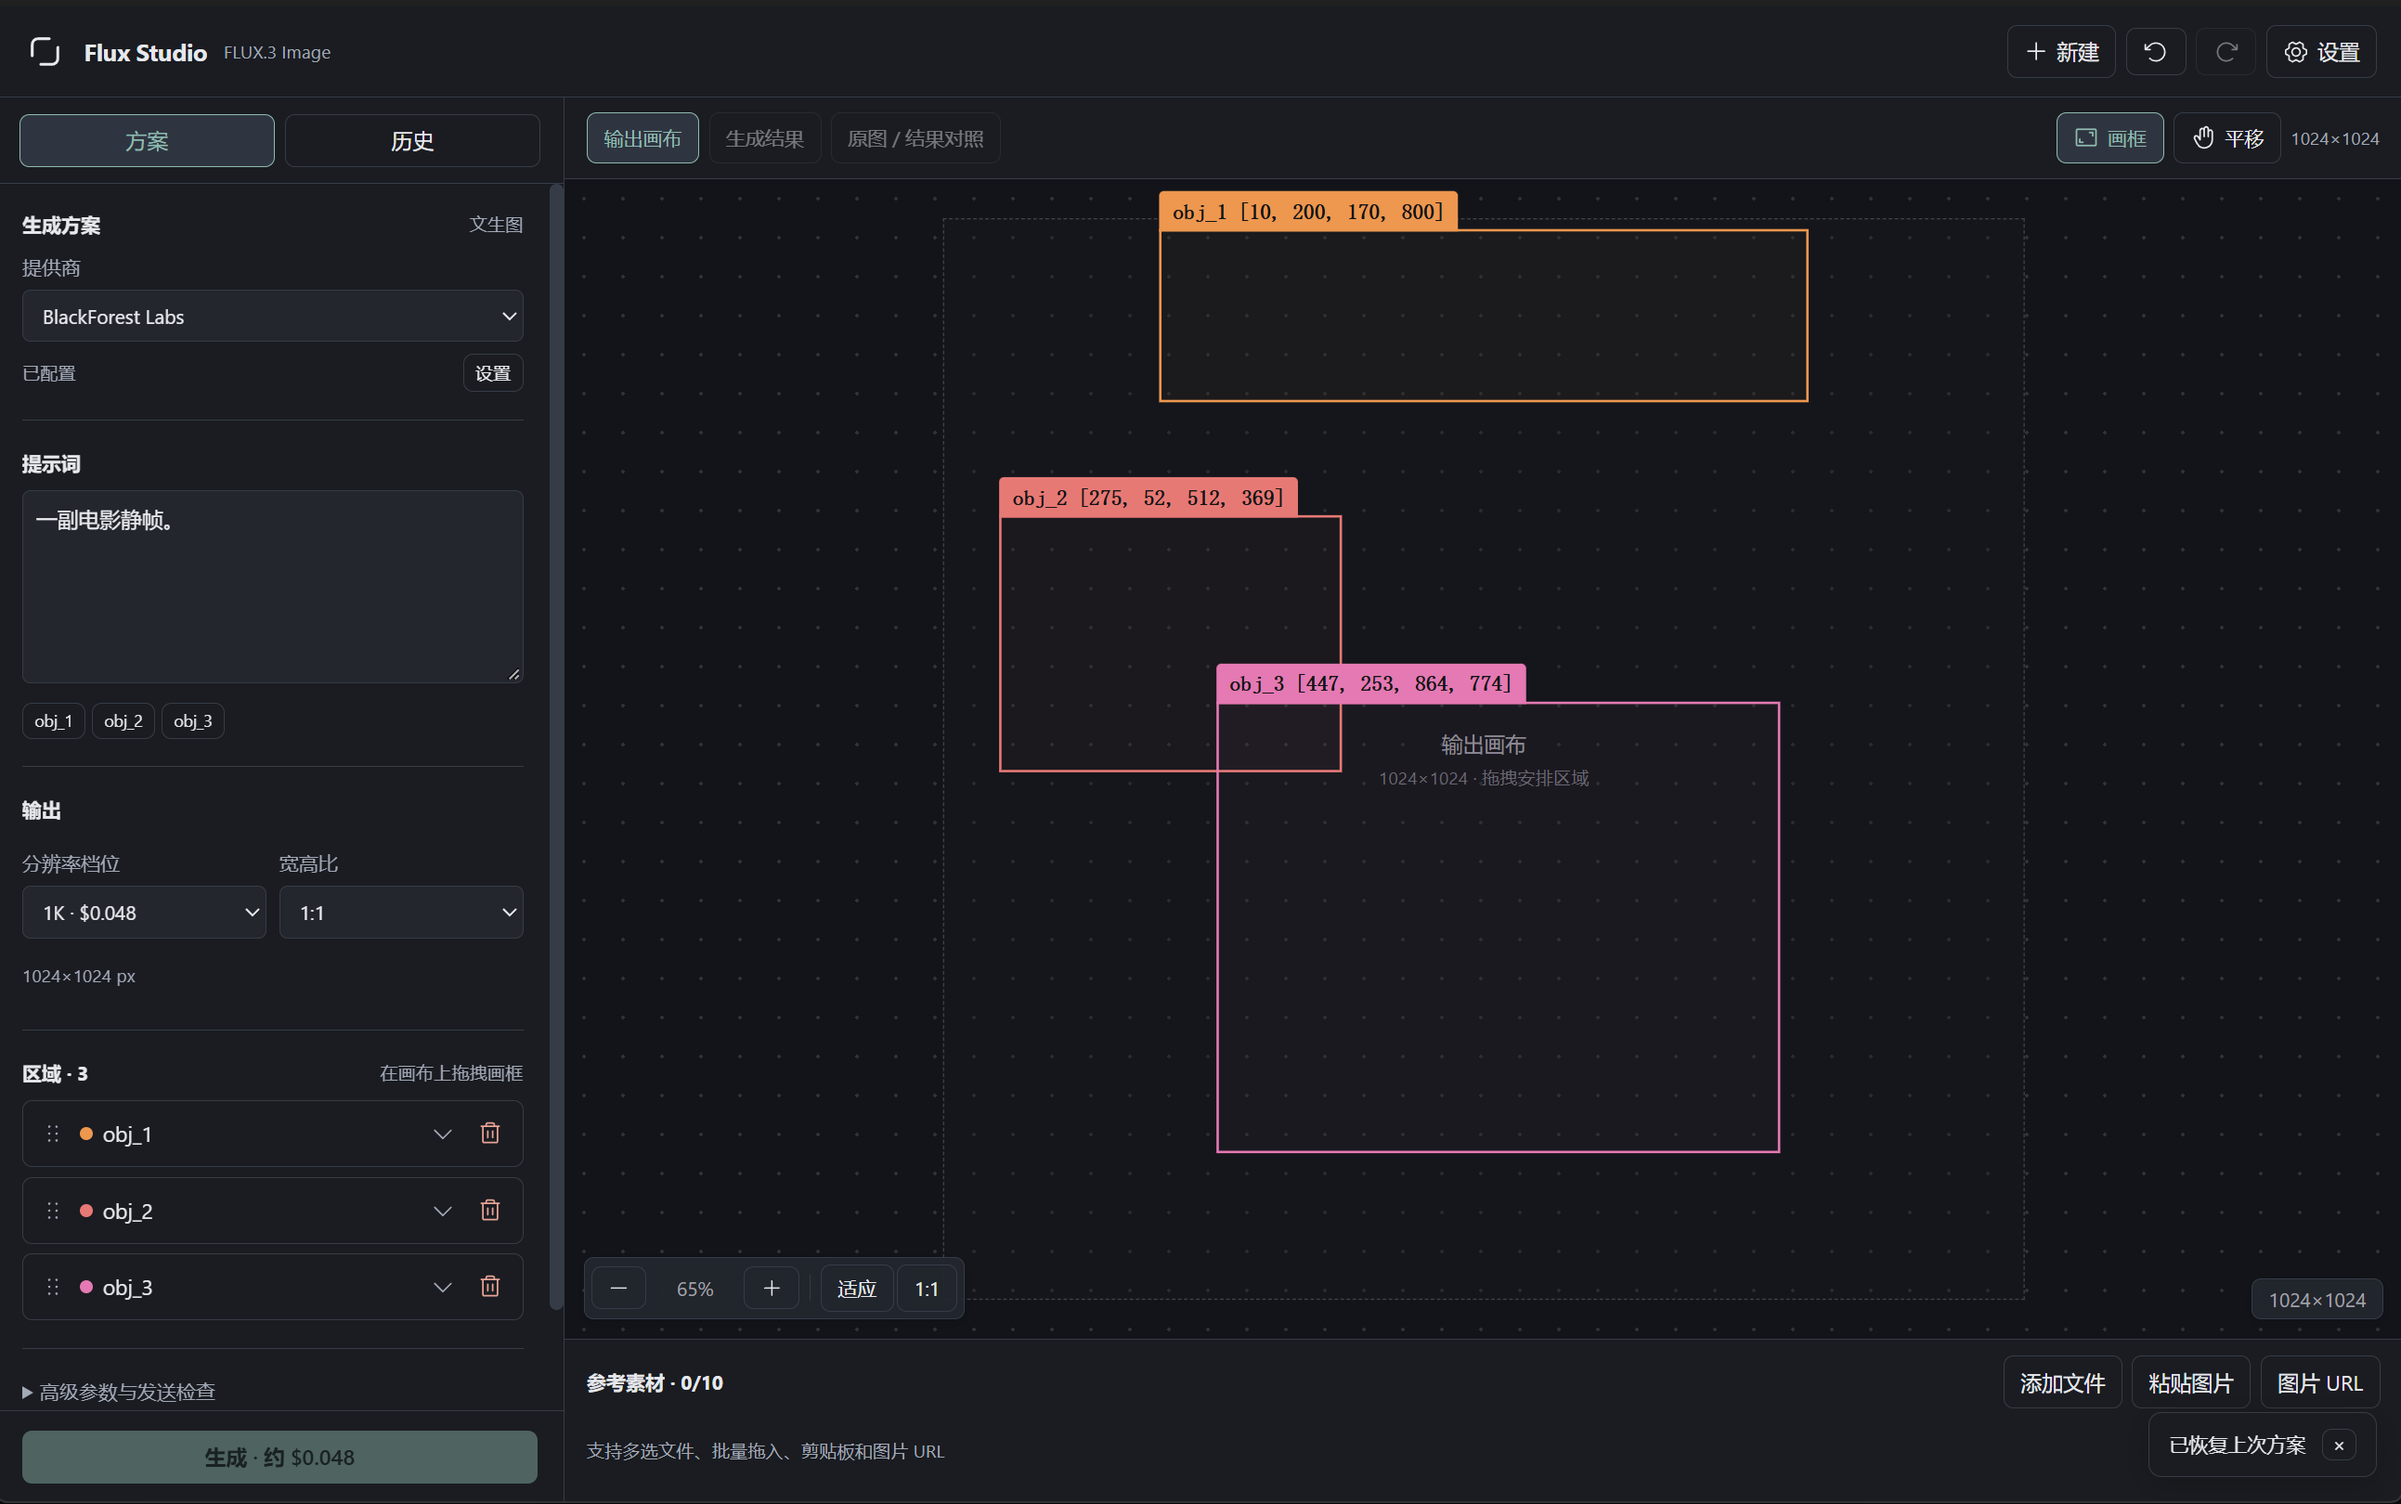
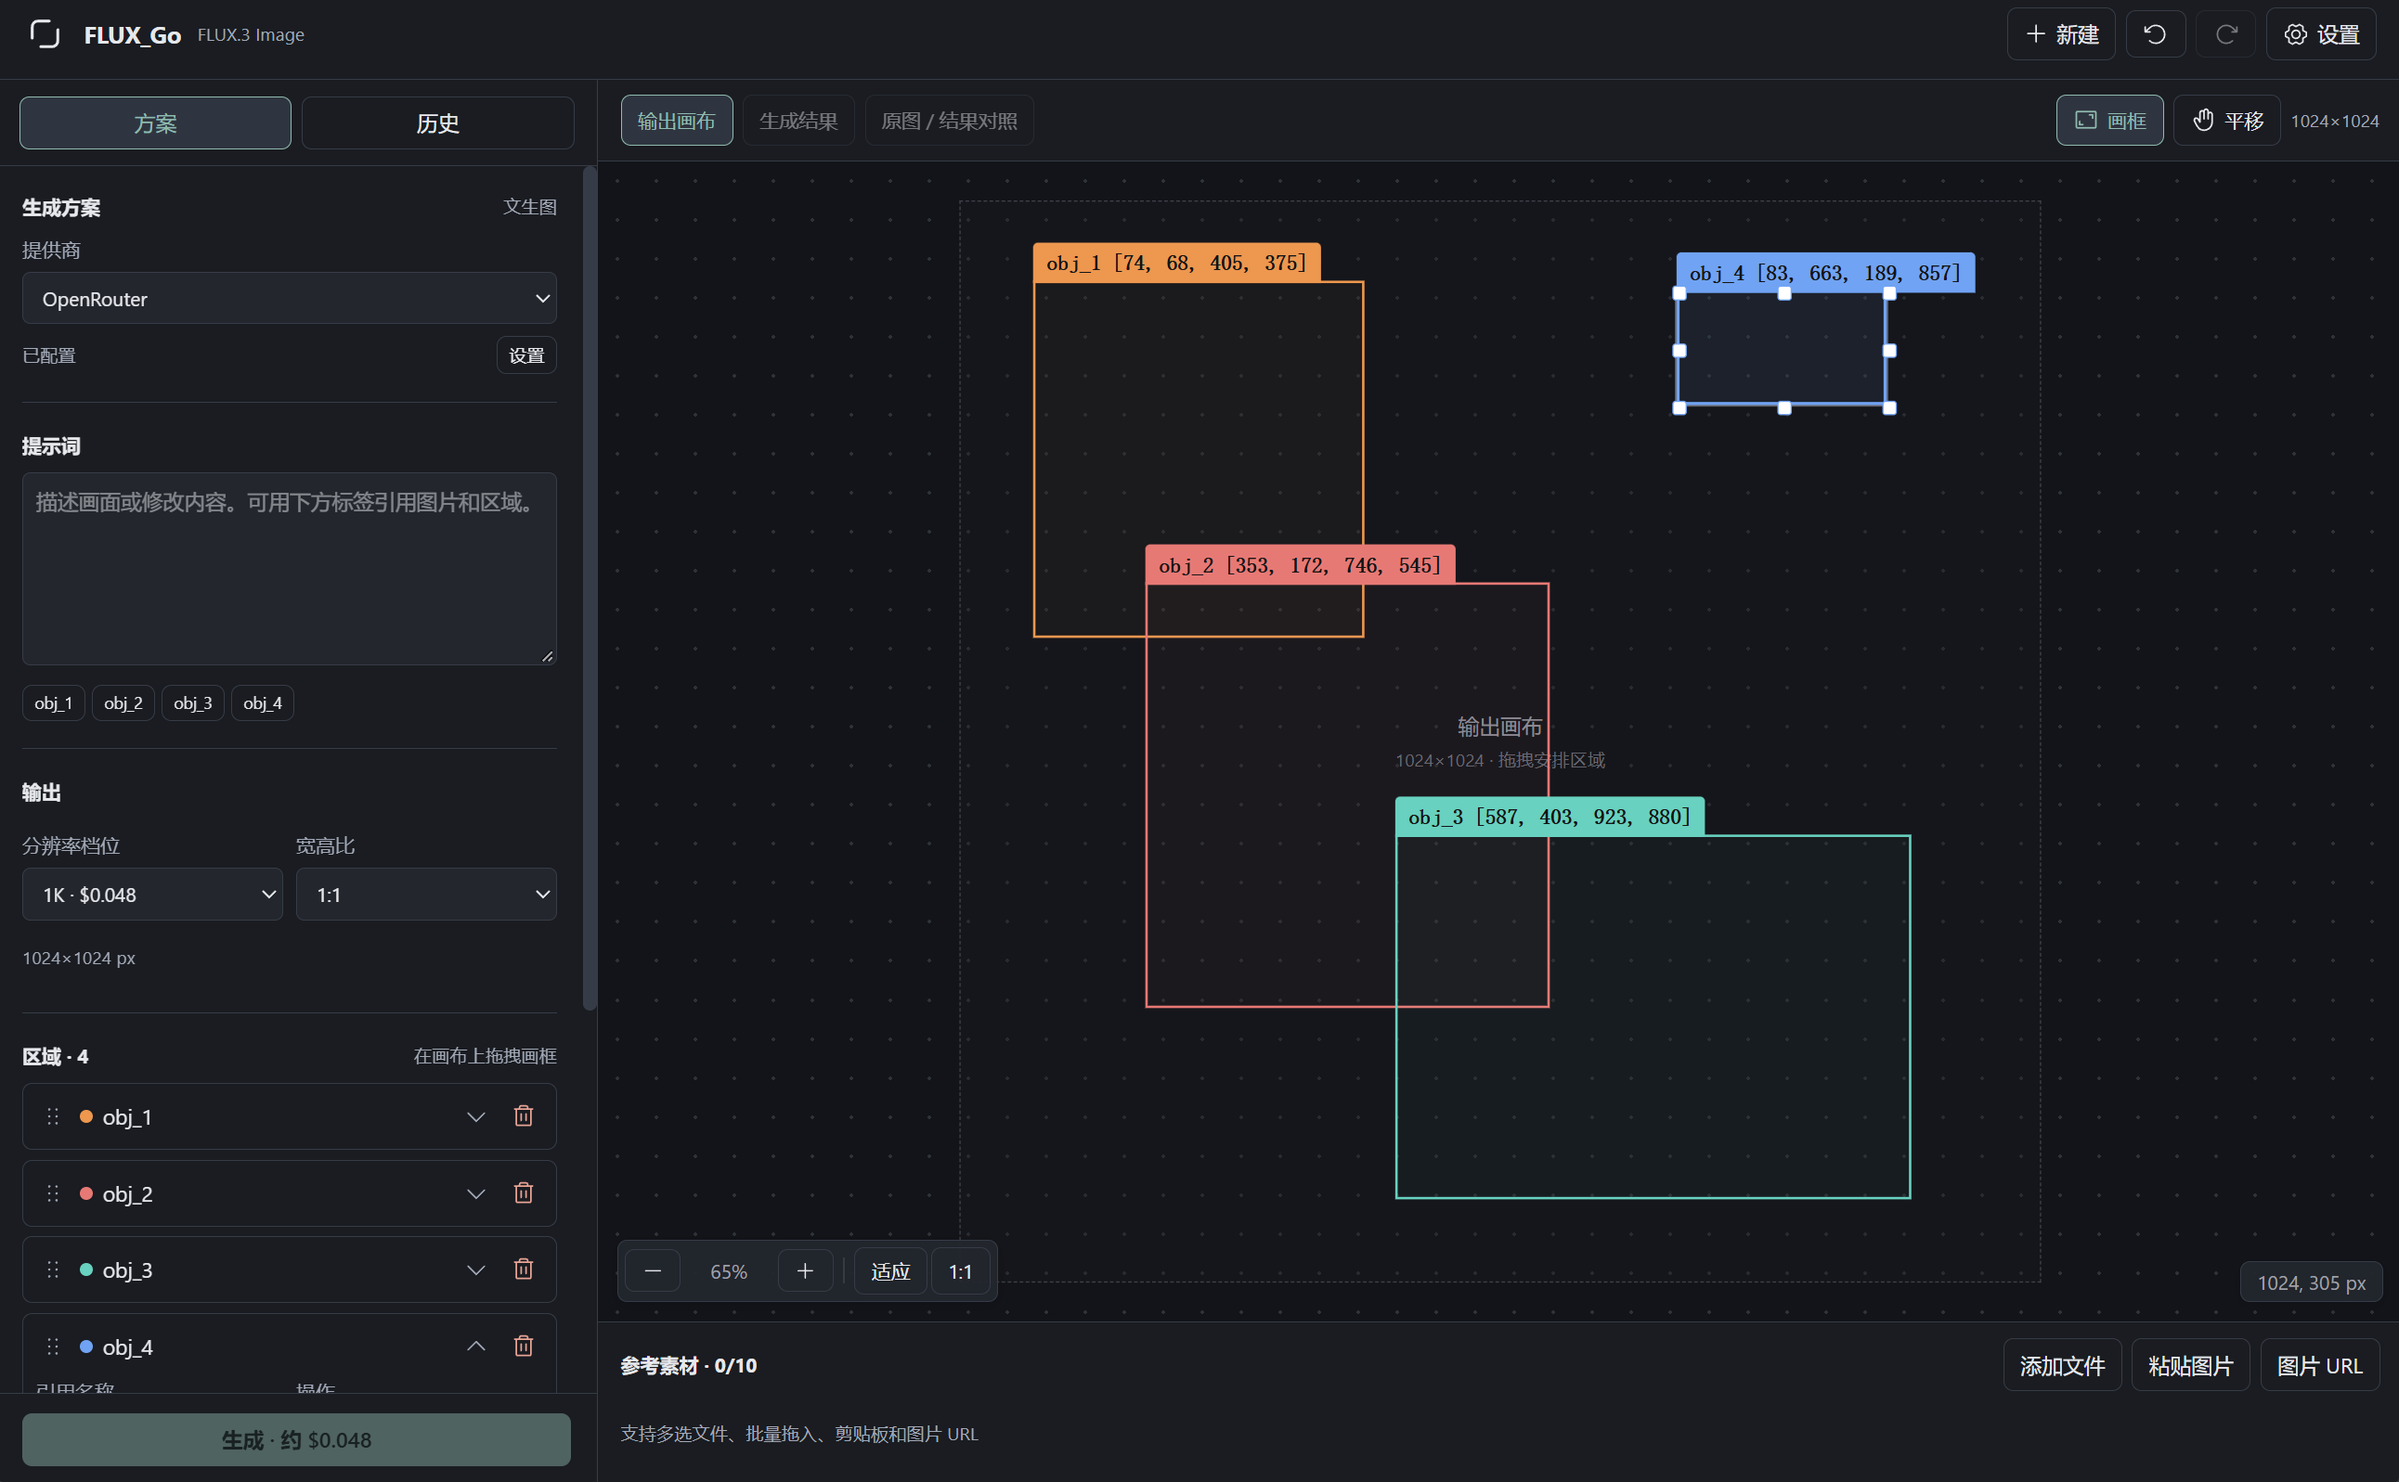
更新名称

diff --git a/src/App.tsx b/src/App.tsx
@@ -213,7 +213,7 @@ export default function App() {
     return { ...b, srcRect: undefined, rect: b.role === "anchor" && b.srcRect && r ? scaleRect(b.srcRect, { w: r.width, h: r.height }, draft.canvas) : b.rect };
   });
   return <div className="workbench">
-    <header className="app-header"><div className="brand"><span className="brand-mark" aria-hidden="true" /><strong>Flux Studio</strong><span className="muted">FLUX.3 Image</span></div>
+    <header className="app-header"><div className="brand"><span className="brand-mark" aria-hidden="true" /><strong>FLUX_Go</strong><span className="muted">FLUX.3 Image</span></div>
       <div className="row"><button disabled={!ready} onClick={() => { saveAllowed.current = true; commit(newDraft(prefs), true); setSelected(null); setView("canvas"); setNotice("已新建方案，原方案可撤销恢复"); }}><Plus size={15} />新建</button>
         <button disabled={!undoStack.length} onClick={undo} title="撤销 Ctrl+Z"><ArrowCounterClockwise size={16} /></button><button disabled={!redoStack.length} onClick={redo} title="重做 Ctrl+Shift+Z"><ArrowClockwise size={16} /></button>
         <button onClick={() => setSettings(true)}><GearSix size={16} />设置</button></div>

diff --git a/index.html b/index.html
@@ -4,7 +4,7 @@
     <meta charset="UTF-8" />
     <meta name="viewport" content="width=device-width, initial-scale=1.0" />
     <link rel="icon" type="image/svg+xml" href="/brand/app-icon.svg" />
-    <title>Flux Studio</title>
+    <title>FLUX_Go</title>
   </head>
   <body>
     <div id="root"></div>

diff --git a/src-tauri/src/provider/mod.rs b/src-tauri/src/provider/mod.rs
@@ -151,7 +151,7 @@ pub fn credential_entry(provider: &str) -> Result<keyring::Entry, String> {
     if !matches!(provider, "bfl" | "openrouter") {
         return Err("未知提供商".into());
     }
-    keyring::Entry::new("app.fluxstudio.desktop", provider)
+    keyring::Entry::new("app.fluxgo.desktop", provider)
         .map_err(|_| "无法访问系统凭据存储".into())
 }
 
@@ -286,7 +286,7 @@ mod tests {
     #[cfg(windows)]
     fn system_credential_roundtrip_in_isolated_namespace() {
         let entry = keyring::Entry::new(
-            "app.fluxstudio.verification",
+            "app.fluxgo.verification",
             &format!(
                 "test-{}-{}",
                 std::process::id(),

diff --git a/src-tauri/src/provider/openrouter.rs b/src-tauri/src/provider/openrouter.rs
@@ -106,7 +106,7 @@ pub async fn generate(req: &GenerateRequest) -> ProviderResult {
     let resp = client()
         .post(ENDPOINT)
         .bearer_auth(key)
-        .header("X-Title", "Flux Studio")
+        .header("X-Title", "FLUX_Go")
         .json(&payload)
         .send()
         .await

diff --git a/src-tauri/src/lib.rs b/src-tauri/src/lib.rs
@@ -56,5 +56,5 @@ pub fn run() {
             commands::history_delete,
         ])
         .run(tauri::generate_context!())
-        .expect("Flux Studio 启动失败");
+        .expect("FLUX_Go 启动失败");
 }

diff --git a/src-tauri/src/main.rs b/src-tauri/src/main.rs
@@ -1,5 +1,5 @@
 #![cfg_attr(not(debug_assertions), windows_subsystem = "windows")]
 
 fn main() {
-    flux_studio_lib::run()
+    flux_go_lib::run()
 }

diff --git a/README.md b/README.md
@@ -1,7 +1,8 @@
 # FLUX_Go
 
 专为 FLUX 3 Image 设计的桌面图像生成与编辑工作台，通过 BFL 或 OpenRouter 使用 FLUX.3 Image，支持多张参考图、包围盒编辑、图片导出和本地历史。
-![alt text](主界面截图.png)
+![alt text](image.png)
+
 ## 启动
 
 安装 Bun、Rust 及 [Tauri 系统依赖](https://v2.tauri.app/start/prerequisites/)，然后运行：
